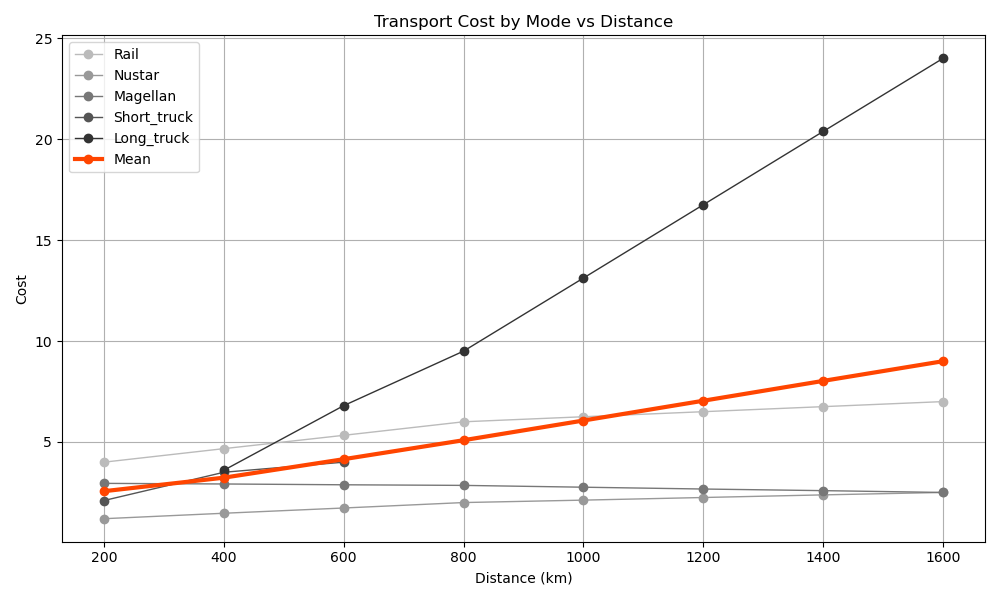
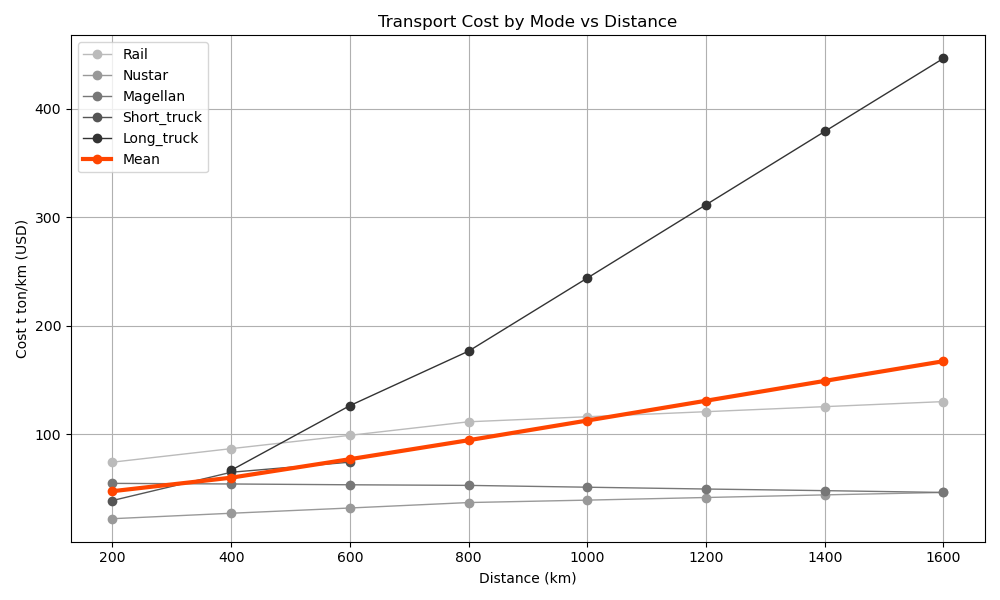
adding ammonia plot

diff --git a/ammoniaplot.py b/ammoniaplot.py
@@ -2,6 +2,7 @@
 import pandas as pd
 import matplotlib.pyplot as plt
 
+
 # Create dataframe
 data = {
     'Distance_km': [200,400,600,800,1000,1200,1400,1600],
@@ -13,6 +14,10 @@ data = {
 }
 
 df = pd.DataFrame(data)
+
+# Multiply all columns except Distance_km by 18.6 to convert from GJ to ton
+cols_to_multiply = df.columns.difference(['Distance_km'])
+df[cols_to_multiply] = df[cols_to_multiply] * 18.6
 
 
 # Compute mean
@@ -34,7 +39,7 @@ plt.plot(df['Distance_km'], df['Mean'], marker='o', label='Mean',
          color=mean_color, linewidth=3)
 
 plt.xlabel('Distance (km)')
-plt.ylabel('Cost')
+plt.ylabel('Cost t ton/km (USD)')
 plt.title('Transport Cost by Mode vs Distance')
 plt.legend()
 plt.grid(True)